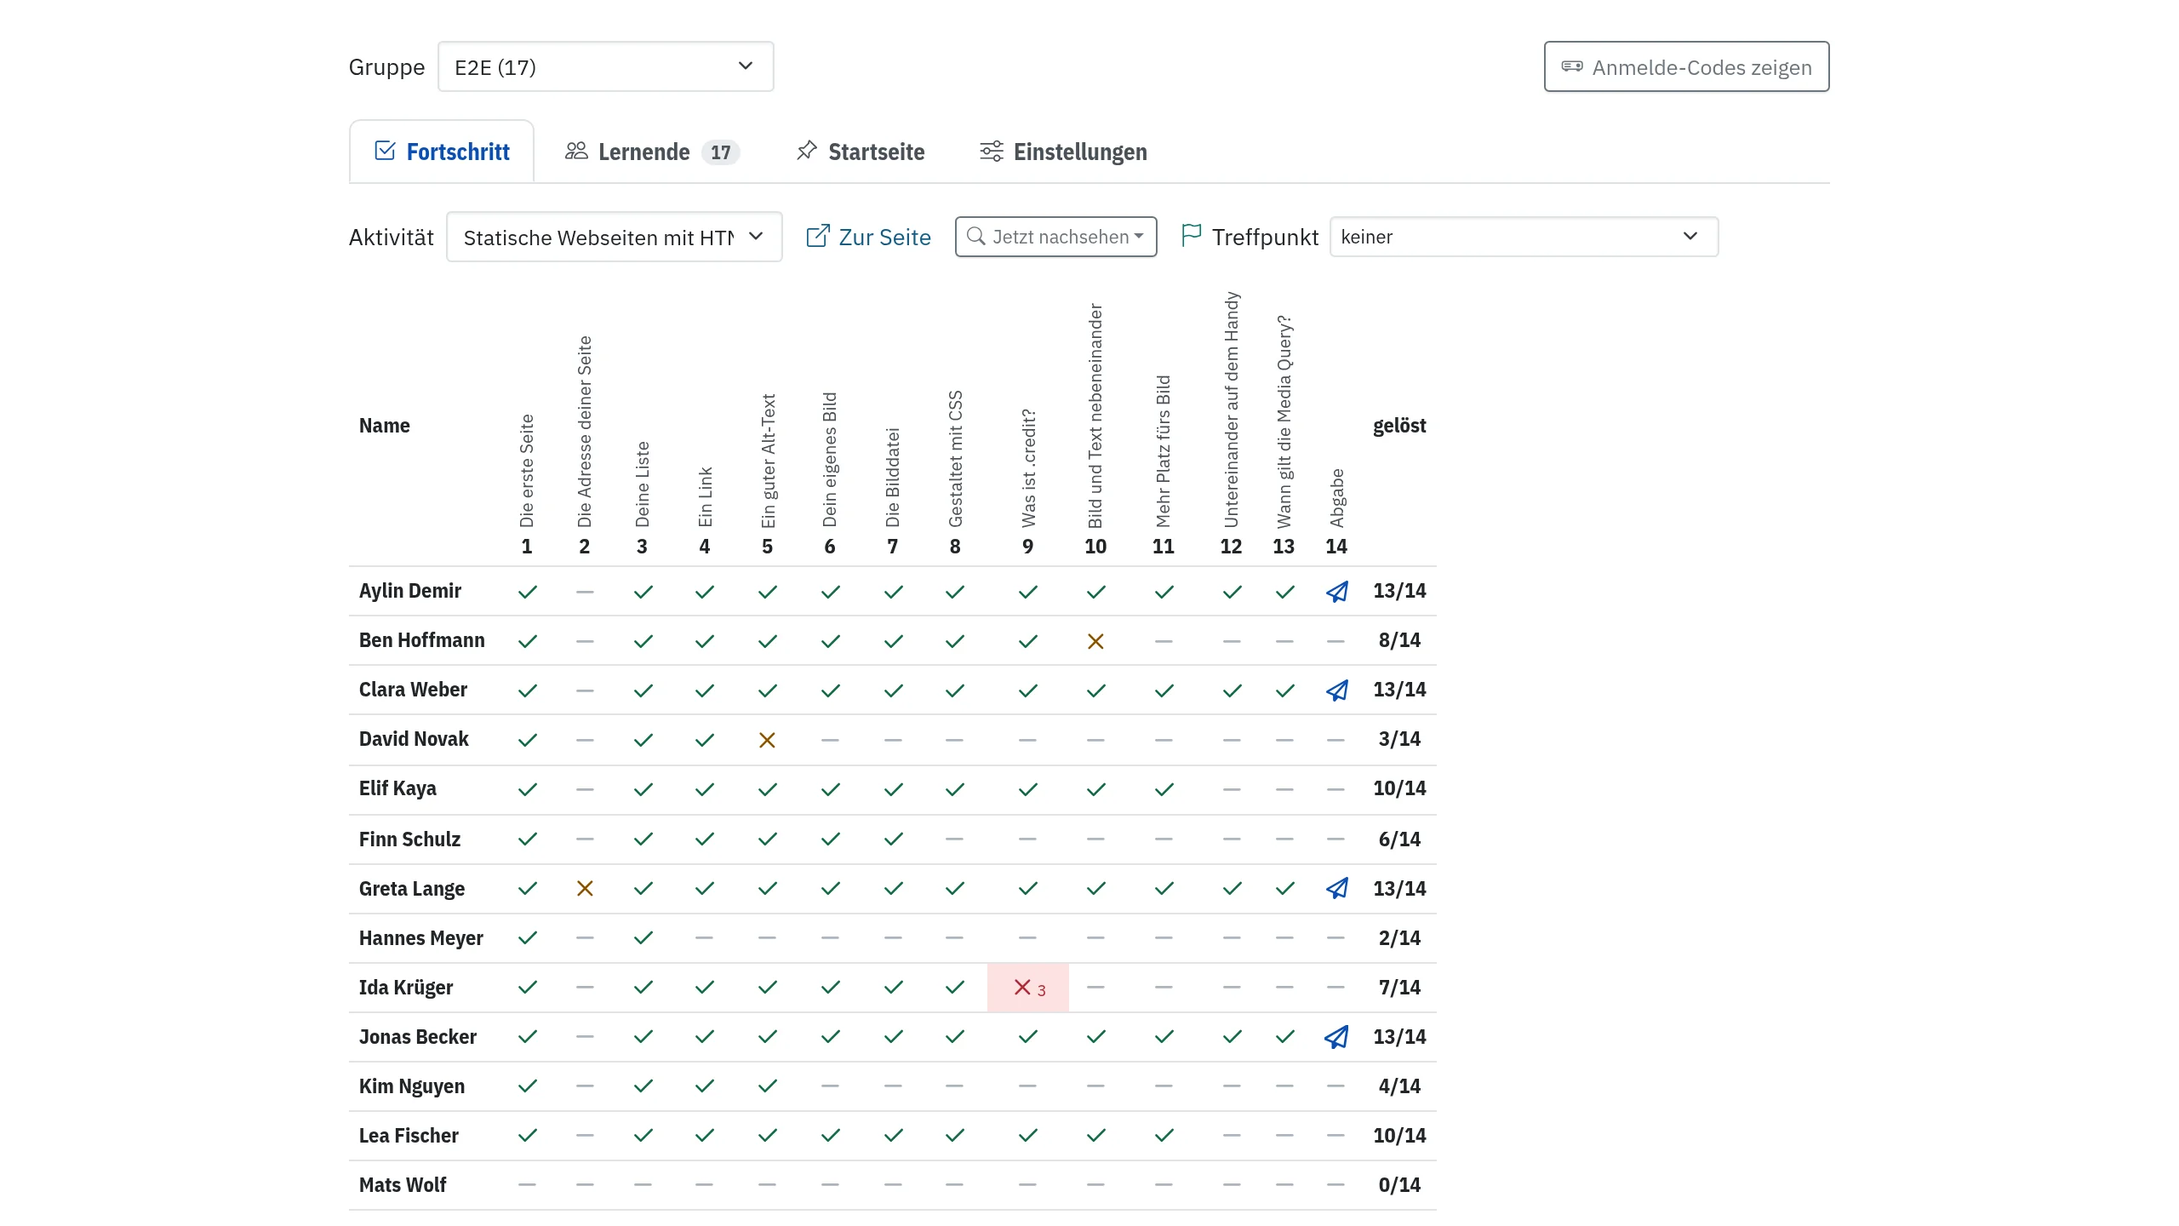
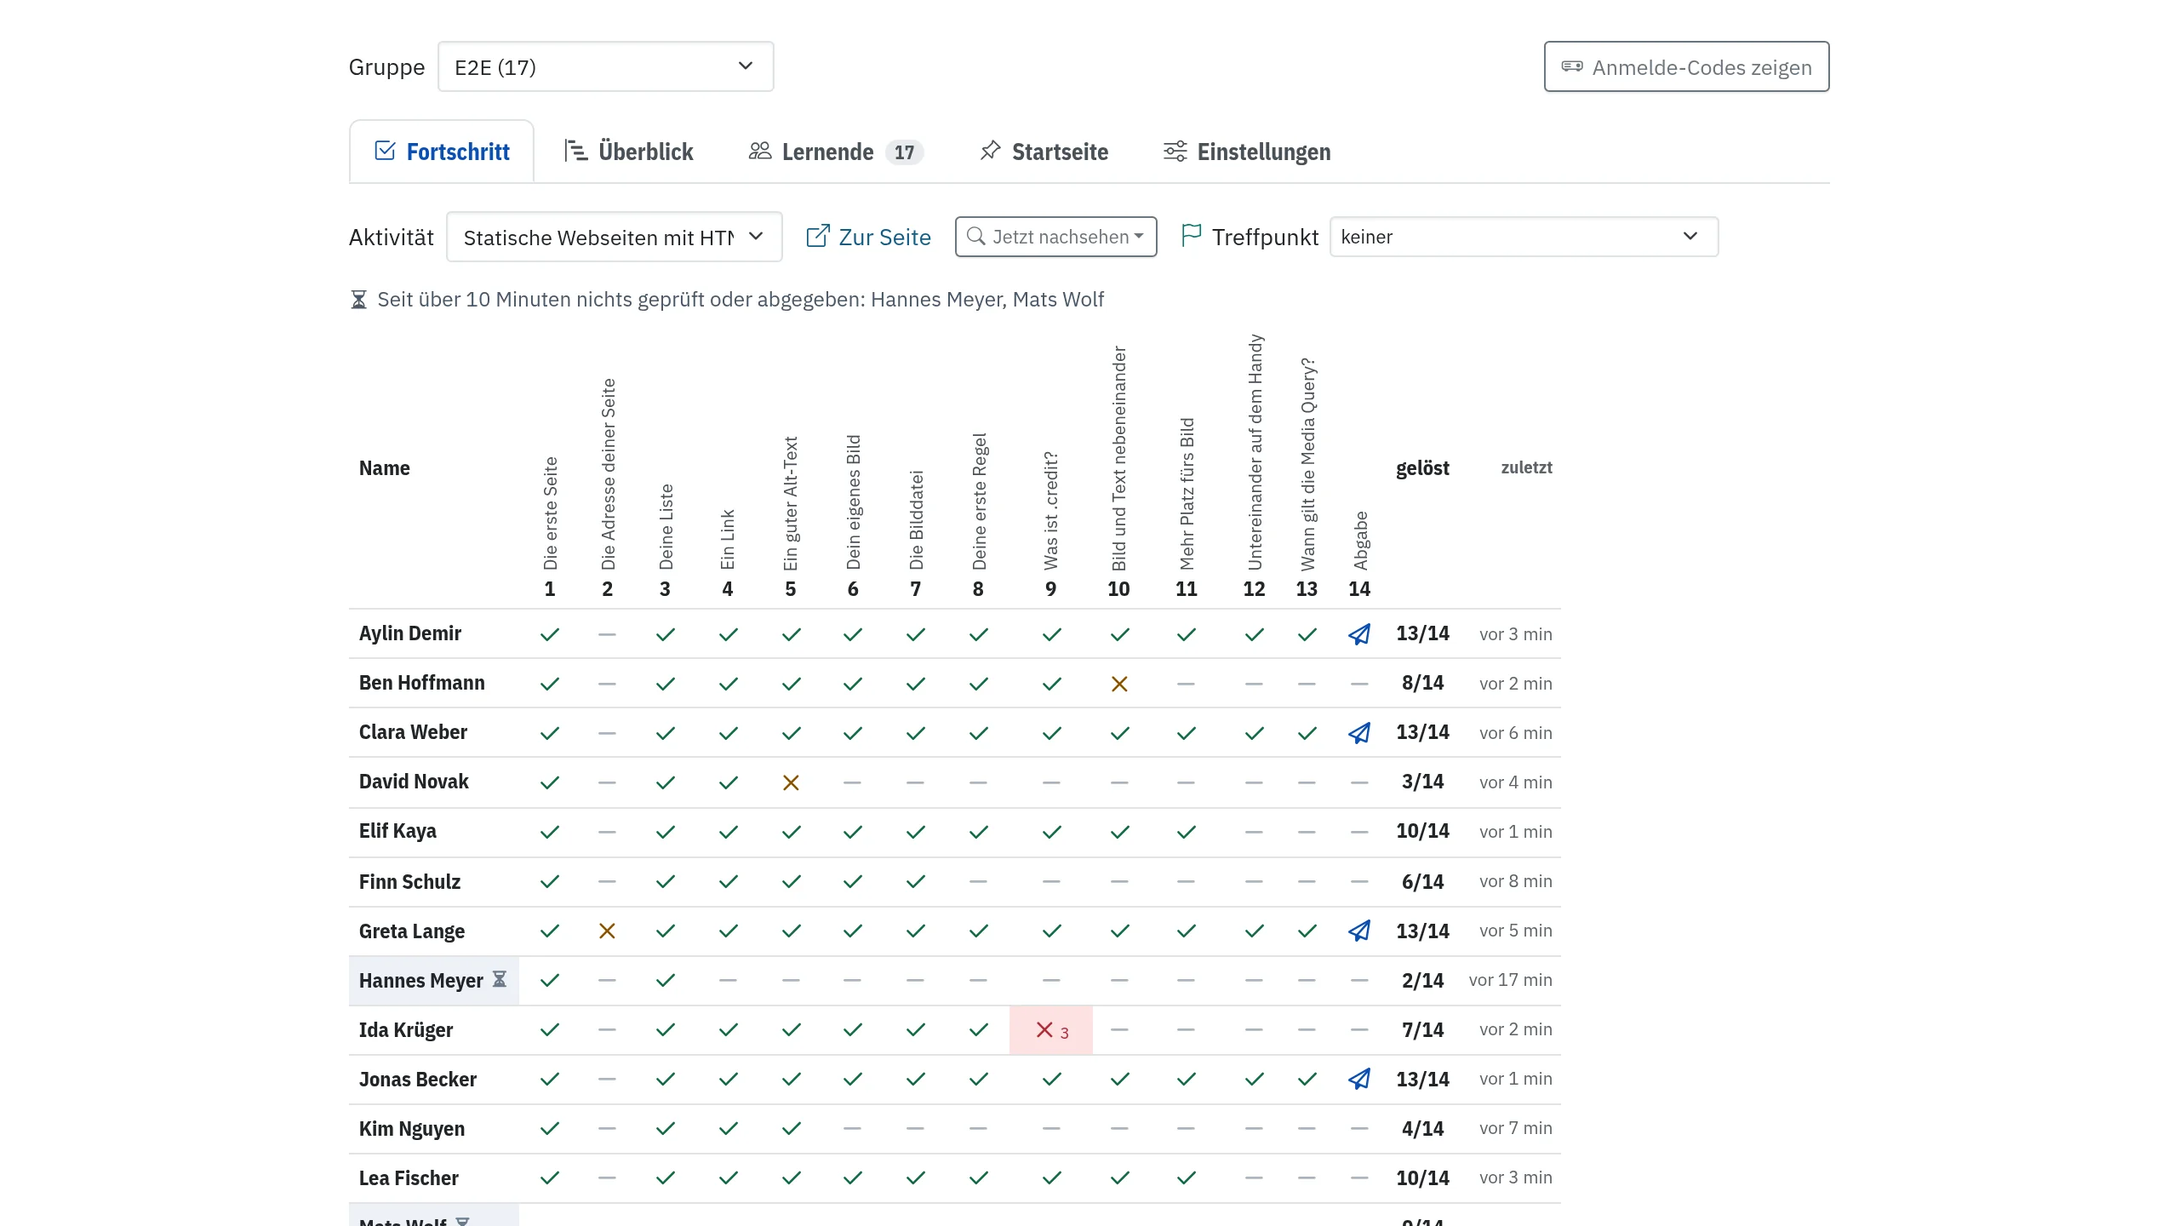
Einstieg für Lehrkräfte up to date with the class page: five tabs, »zuletzt« and who is quiet, the Treffpunkt, the tab »Überblick« (with a picture), »Einstellungen« (language, copy buttons, Git repositories, school and documents), »Klassen« instead of »Gruppen«, »Neue Gruppe« once a school is assign

diff --git a/e2e/tests/teacher-guide.pictures.ts b/e2e/tests/teacher-guide.pictures.ts
@@ -25,8 +25,8 @@ const REPO = path.resolve(__dirname, '../..');
 // below, and hashes the files the same way).
 const INPUTS = [
   'e2e/tests/teacher-guide.pictures.ts',
-  'src/ruby/include/class_board.rb', 'src/ruby/include/submission_view.rb', 'src/ruby/include/teacher_roles.rb',
-  'src/static/include/class_board.js', 'src/static/include/submission_viewer.js', 'src/static/include/tasks.js',
+  'src/ruby/include/class_board.rb', 'src/ruby/include/class_page.rb', 'src/ruby/include/submission_view.rb', 'src/ruby/include/teacher_roles.rb',
+  'src/static/include/class_board.js', 'src/static/include/class_last_active.js', 'src/static/include/submission_viewer.js', 'src/static/include/tasks.js',
   'src/static/include/default.css', 'src/static/include/dark.css', 'src/static/_template.html',
   'src/content/static-website/tasks.yaml',
 ];
@@ -75,6 +75,17 @@ const MISTAKES: [string, string, string][] = [
   ['e2e-peer@example.com', 'selektor', '0'], ['e2e-peer@example.com', 'selektor', '2'], ['e2e-peer@example.com', 'selektor', '3'],
 ];
 const STUCK = new Set(['e2e-auth-student-3@example.com alt-text', 'e2e-peer@example.com selektor']);
+// »zuletzt« as in a lesson half an hour in (minutes ago; the script itself
+// checks every task within seconds): Mats has not checked anything yet and
+// Hannes stopped a while ago, so the line above the board names both.
+const LAST: Record<string, number> = {
+  'e2e-auth-student-0@example.com': 3, 'e2e-auth-student-1@example.com': 2, 'e2e-auth-student-2@example.com': 6,
+  'e2e-auth-student-3@example.com': 4, 'e2e-auth-student-4@example.com': 1, 'e2e-auth-student-5@example.com': 8,
+  'e2e-auth-student-6@example.com': 5, 'e2e-auth-student-7@example.com': 17, 'e2e-peer@example.com': 2,
+  'e2e-0@example.com': 1, 'e2e-1@example.com': 7, 'e2e-2@example.com': 3,
+  'e2e-4@example.com': 9, 'e2e-5@example.com': 4, 'e2e-6@example.com': 6, 'e2e-7@example.com': 2,
+};
+const QUIET = ['e2e-3@example.com', 'e2e-auth-student-7@example.com'];
 
 const STAGES = path.resolve(__dirname, '../../src/content/static-website/lehrkraft');
 const PHOTO = path.resolve(__dirname, '../../src/content/reference/html/bilder/classroom.jpg');
@@ -141,7 +152,9 @@ async function dress(page: Page, zoom = 1) {
     nodes.forEach((n) => { const t = fix(n.data); if (t !== n.data) n.data = t; });
     document.documentElement.style.zoom = String(z);
   }, [NAMES, zoom] as const);
-  await page.addStyleTag({ content: 'footer { display: none !important; } .class-board-intro { visibility: hidden; }' });
+  // the E2E teacher has no school and its group comes from a file: notes a
+  // teacher of a school with a group of its own never sees
+  await page.addStyleTag({ content: 'footer { display: none !important; } .class-board-intro { visibility: hidden; } .class-group-new-note, .class-group-files { display: none !important; }' });
 }
 
 async function shoot(page: Page, name: string, anchor: string | null, out: string) {
@@ -202,11 +215,33 @@ test('pictures for the teacher guide', async ({ freshWorkspace: workspace, brows
 
     const teacher = await (await browser.newContext({ viewport: { width: 1280, height: 720 }, deviceScaleFactor: 2 })).newPage();
     await loginAsE2eUser(teacher, 'e2e-teacher@example.com', testInfo);
+    await teacher.route('**/api/class/last_active', async (route) => {
+      const now = Math.floor(Date.now() / 1000);
+      const last = Object.fromEntries(Object.entries(LAST).map(([email, minutes]) => [email, now - minutes * 60 - 20]));
+      await route.fulfill({ contentType: 'application/json', body: JSON.stringify({ now, last: { ...last, 'e2e-3@example.com': 0 }, quiet: QUIET }) });
+    });
     await teacher.goto('/klasse?group=E2E&activity=static-website');
     await teacher.evaluate(() => localStorage.setItem('hackschule-class-welcome-hidden', '1'));
     await teacher.reload();
+    await expect(teacher.locator('.cb-quiet-line')).toBeVisible({ timeout: 15_000 });
     await dress(teacher, 0.78);
     await shoot(teacher, 'klasse-fortschritt', '.class-board-select', out);
+
+    // How far everyone has come, across the group's activities; »zuletzt«
+    // the same lesson as on the board
+    await teacher.goto('/klasse?group=E2E&tab=ueberblick');
+    await teacher.evaluate((last) => {
+      const now = Math.floor(Date.now() / 1000);
+      document.querySelectorAll<HTMLElement>('table.class-overview tbody tr[data-email]').forEach((tr) => {
+        const minutes = (last as Record<string, number>)[tr.dataset.email!];
+        const td = tr.querySelector<HTMLElement>('td.cb-last')!;
+        td.dataset.updated = minutes === undefined ? '0' : String(now - minutes * 60 - 20);
+        td.textContent = (window as any).ClassLastActive.ago(Number(td.dataset.updated), now);
+      });
+    }, LAST);
+    await dress(teacher, 0.78);
+    await shoot(teacher, 'klasse-ueberblick', '.class-board-select', out);
+    await teacher.unroute('**/api/class/last_active');
 
     // The class at work: each Workspace with a load of its own (LOADS)
     await teacher.goto('/klasse?group=E2E&tab=lernende');

diff --git a/src/content/lehrmaterial/lehrmaterial-einstieg/lehrmaterial-einstieg.md b/src/content/lehrmaterial/lehrmaterial-einstieg/lehrmaterial-einstieg.md
@@ -11,7 +11,7 @@ image: klasse-fortschritt.webp
 # Einstieg für Lehrkräfte
 
 <p class='abstract'>
-Was du für die erste Stunde mit dem Workspace brauchst: wie deine Klasse sich anmeldet, was die Klassenseite zeigt, wie du Abgaben ansiehst und wie du alles vorher selbst ausprobierst. Diese Seite sehen nur Lehrkräfte.
+Was du für die erste Stunde mit dem Workspace brauchst: wie deine Klasse sich anmeldet, was die Klassenseite zeigt, wer wo hängt, wie du Abgaben ansiehst und wie du alles vorher selbst ausprobierst. Diese Seite sehen nur Lehrkräfte.
 </p>
 
 ## Was die Lernenden haben
@@ -36,17 +36,17 @@ Ein Code gilt einmal und nur kurze Zeit. Wer sich vertippt, fordert einfach eine
 
 ## Gruppen und Einladungen
 
-Wer sich anmelden kann, steht in einer Gruppe. Unter **Klassen** legst du mit **Neue Gruppe** deine Gruppen an; im Reiter **Lernende** trägst du die E-Mail-Adressen ein (eine pro Zeile, mit oder ohne Namen, auch aus einer Tabelle kopiert) und schickst eine **Willkommensmail**: Sie sagt, wie die Anmeldung geht, und Antworten darauf kommen bei dir an. Namen sind freiwillig und können auch später kommen; ohne Namen zeigt die Klassenseite die Adresse. Eine Kollegin oder einen Kollegen deiner Schule nimmst du mit **Lehrkraft dazu** in eine Gruppe.
+Wer sich anmelden kann, steht in einer Gruppe. Unter **Klassen** legst du mit **Neue Gruppe** deine Gruppen an. Den Knopf gibt es, sobald die Administration dir eine Schule zugeordnet hat; bis dahin steht an seiner Stelle, an wen du schreibst. Danach trägst du im Reiter **Lernende** die E-Mail-Adressen ein (eine pro Zeile, mit oder ohne Namen, auch aus einer Tabelle kopiert) und schickst eine **Willkommensmail**: Sie sagt, wie die Anmeldung geht, und Antworten darauf kommen bei dir an. Namen sind freiwillig und können auch später kommen; ohne Namen zeigt die Klassenseite die Adresse. Eine Kollegin oder einen Kollegen deiner Schule nimmst du mit **Lehrkraft dazu** in eine Gruppe.
 
 Welcher Schule du angehörst, trägt die Administration ein. Hat deine Schule dem Einsatz noch nicht zugestimmt, vermerkst du im Reiter **Lernende**, für wen ein schriftliches Einverständnis vorliegt; anmelden können sich alle schon jetzt (mehr dazu unten).
 
 <div class='hint'>
-Steht auf der Klassenseite, dass die Einladungen noch in Dateien stehen, pflegt sie die Administration: Schreib an <a href='mailto:${contact_email}'>${contact_email}</a>, für welche Gruppe, und schick die E-Mail-Adressen mit.
+Steht im Reiter **Lernende**, dass die Einladungen der Gruppe noch in Dateien stehen, pflegt sie die Administration: Schreib an <a href='mailto:${contact_email}'>${contact_email}</a>, für welche Gruppe, und schick die E-Mail-Adressen mit.
 </div>
 
 ## Die Klassenseite
 
-Unter **Klassen** wählst du oben die Gruppe. Darunter liegen drei Reiter.
+Unter **Klassen** wählst du oben die Gruppe. Darunter liegen fünf Reiter: **Fortschritt** zeigt eine Aktivität Aufgabe für Aufgabe, **Überblick** alle Aktivitäten der Gruppe auf einmal, **Lernende** die Personen und ihre Workspaces, **Startseite**, was die Gruppe zuerst sieht, und **Einstellungen**, was für die ganze Gruppe gilt.
 
 ### Fortschritt
 
@@ -69,6 +69,8 @@ Hier wählst du eine Aktivität und siehst, wer welche Aufgabe gelöst hat. Jede
 
 Die Zeile **Klasse** darunter zählt, wie viele fertig sind und wie viele hängen. Eine gelbe Spalte heißt: Viele liegen bei dieser Aufgabe gerade falsch. Das ist oft ein guter Moment, kurz für alle zu erklären.
 
+Ganz rechts steht unter **zuletzt**, wann jemand zuletzt eine Aufgabe dieser Aktivität geprüft, beantwortet oder abgegeben hat, etwa »vor 12 min«. Wer still ist, fällt dadurch auf, auch wenn noch kein Kreuz in der Zeile steht: Arbeitet die Klasse gerade an der Aktivität, steht über der Tabelle, wer seit über zehn Minuten nichts geprüft oder abgegeben hat, und diese Namen sind leicht hinterlegt. Das kann jemand sein, der hängt und nicht fragt, oder jemand, der in Ruhe arbeitet, ohne zu prüfen; was im Workspace geschieht, sieht die Seite nicht. Wer bei einem Treffpunkt als »fehlt heute« markiert ist, steht nicht in dieser Zeile. Die Zeiten laufen weiter, solange die Seite offen ist.
+
 Darüber stehen zwei Werkzeuge:
 
 - **Jetzt nachsehen** prüft eine Aufgabe sofort für alle, ohne dass jemand »Prüfen« drücken muss, zum Beispiel ob alle ihre Seite angelegt haben. Das Ergebnis erscheint blau umrandet in der Tabelle; gespeichert wird nichts.
@@ -83,6 +85,18 @@ Eine Abgabe ist eine Kopie. Was die Person danach im Workspace ändert, ändert 
 Für eine neue Runde, etwa im nächsten Halbjahr, löscht **Alle Abgaben löschen** unter der Liste die Abgaben dieser Aufgabe in dieser Gruppe. Vorher fragt der Workspace nach; lade herunter, was du behalten willst.
 
 Die Klassenseite merkt sich, welche Gruppe und welche Aktivität du zuletzt angesehen hast, und öffnet beim nächsten Mal dort.
+
+#### Treffpunkt
+
+Mit **Treffpunkt** über der Tabelle legst du fest, bis zu welcher Aufgabe alle kommen sollen, bevor ihr gemeinsam weitermacht, etwa für ein Gespräch an der Tafel. Wer die Aktivität offen hat, sieht nach dieser Aufgabe sofort das Band »Hier trifft sich deine Klasse«; wer alle Aufgaben bis dahin gelöst hat (Extras zählen nicht), liest dort »Du bist da«. Versteckt wird nichts; was danach kommt, ist nur blasser.
+
+Über der Tabelle steht, wie viele schon da sind und wer noch fehlt; die Zahl ändert sich, sobald jemand eine Aufgabe löst. Wer heute nicht da ist, nimmst du mit **fehlt heute** aus der Zählung; das merkt sich nur dein Browser, bis Mitternacht. Sind alle da, wird die Zeile grün. **keiner** hebt den Treffpunkt wieder auf. Auf der Seite der Aktivität setzt und verschiebst du ihn auch direkt, mit dem gestrichelten Knopf nach einer Aufgabe.
+
+### Überblick
+
+Hier steht jede Person der Gruppe mit allen Aktivitäten, an denen jemand aus der Gruppe gearbeitet hat; angeheftete kommen zuerst. In jeder Zelle steht, wie viele Aufgaben gelöst sind, von allen ohne Extras, mit einem schmalen Balken; ein Strich heißt: noch nichts bearbeitet. Ein Klick auf eine Spalte öffnet die Aktivität im Reiter **Fortschritt**. Ganz rechts steht, wann die Person zuletzt eine Aufgabe irgendeiner Aktivität geprüft hat. Noten sind das nicht: Die Zahlen sagen, wie weit jemand ist, nicht wie gut.
+
+<img class='full full-shadow' src='klasse-ueberblick.webp' alt='Der Reiter Überblick: Namen untereinander, darüber die Aktivitäten der Gruppe, in den Zellen gelöste Aufgaben mit einem schmalen Balken, rechts, wann zuletzt.'>
 
 ### Lernende
 
@@ -102,6 +116,24 @@ Bevor du einen Workspace öffnest oder jemanden nachahmst, schreibst du einen Sa
 ### Startseite
 
 Was du hier für die Gruppe **anheftest**, steht bei allen in der Gruppe oben auf der Startseite. So findet die Klasse die Aktivität der Stunde sofort.
+
+### Einstellungen
+
+Hier steht, was für die ganze Gruppe gilt; jede Änderung ist sofort gespeichert.
+
+- **Sprache:** Gibt es eine Aktivität in mehreren Programmiersprachen (etwa Ruby und Python), sieht die Gruppe zuerst diese. Lernende können auf der Seite selbst umschalten.
+- **Kopierknöpfe:** »An jedem Codeblock« setzt überall einen Kopierknopf. »Wo sinnvoll« lässt ihn nur dort, wo Abtippen nichts lehrt (Adressen, Befehle, große Dateien); alles andere tippt die Klasse ab.
+- **Git-Repositorys:** Für Aktivitäten, in denen die Klasse ein gemeinsames Repository klont, trägst du dessen Adresse ein oder legst es mit **Im Workspace anlegen** auf dem Git-Server des Workspace an. Die Lernenden sehen die Adresse dann im Befehl zum Klonen.
+- **Schule:** zu welcher Schule die Gruppe gehört, ob die Schule dem Einsatz zugestimmt hat, und der Weg zu den **Unterlagen für deine Schule** (mehr dazu unten).
+
+## Die erste Doppelstunde
+
+1. **Vorher:** Leg die Gruppe an und trag die Adressen ein (Reiter **Lernende**). Probier die Aktivität mit deinem Testkonto aus (siehe unten).
+2. **Anmelden:** Zeig **Anmelde-Codes zeigen** am Beamer; die Klasse meldet sich mit dem Anfang ihrer Adresse an und liest ihren Code dort ab.
+3. **Anheften:** Heft die Aktivität der Stunde im Reiter **Startseite** an. Sie steht dann bei allen ganz oben.
+4. **Treffpunkt:** Setz im Reiter **Fortschritt** einen Treffpunkt nach der Aufgabe, bis zu der alle vor dem ersten Gespräch kommen sollen.
+5. **Beobachten:** Behalt **Fortschritt** offen. Rote Kreuze zeigen, wer hängt, eine gelbe Spalte, wo viele hängen, die Zeile über der Tabelle, wer still ist. Ist die Treffpunkt-Zeile grün, sind alle da.
+6. **Am Ende:** Der Reiter **Überblick** zeigt, wie weit alle gekommen sind, auch über mehrere Aktivitäten.
 
 ## Selbst ausprobieren
 
@@ -142,6 +174,8 @@ Steht an einer Aufgabe **Vorschau für Lehrkräfte**, sind Aufgaben auf eurer In
 - Abgaben als Kopie, bis die Person sie löscht oder neu abgibt.
 - Wer wann einen Workspace geöffnet oder jemanden nachgeahmt hat, mit deinem Satz dazu.
 
+Daraus zeigt die Klassenseite auch, wann jemand zuletzt eine Aufgabe geprüft hat; eigens gespeichert wird dafür nichts.
+
 Noten speichert der Workspace nicht. Die Haken auf der Klassenseite sagen, ob eine Aufgabe gelöst ist, nicht wie gut.
 
 Im Profil unter **Meine Daten** lädt jede Person alles, was zu ihrem Konto gespeichert ist, als ZIP herunter und löscht ihr Konto selbst. Spätestens zum Ende des Schuljahres, in dem ein Kurs endet, werden die Konten gelöscht; sag der Administration, welche Gruppen enden und wer die Schule verlässt. Wer die Schule verlässt und das Konto behalten möchte, kann es weiterführen. Alles Weitere steht in der [Datenschutzerklärung](/impressum#datenschutz).
@@ -150,8 +184,8 @@ Im Profil unter **Meine Daten** lädt jede Person alles, was zu ihrem Konto gesp
 
 Unter [Datenschutz: Unterlagen für die Schule](/datenschutz) liegt alles, was eine Schulleitung braucht, um den Workspace im Unterricht einzusetzen: eine Seite mit der Entscheidung zum Unterschreiben, eine Prüfübersicht für die Datenschutzbeauftragte Stelle, der Eintrag für das Verzeichnis von Verarbeitungstätigkeiten, ein Elternbrief und eine Nutzungsordnung, jeweils zum Drucken.
 
-Unterrichtest du an einer anderen Schule als der, die den Workspace betreibt, gilt das auch für dich. Unter **Gruppen** führt **Unterlagen für deine Schule** zu denselben Unterlagen mit deiner Schule als Verantwortlicher: Sie nennen ihre Anschrift und ihre Datenschutzbeauftragte Stelle (das trägt die Administration ein; sag ihr, was fehlt), dich als Ansprechperson, und der Elternbrief trägt deinen Namen. Die Schulleitung unterschreibt die Entscheidung und die Vereinbarung zur Auftragsverarbeitung; schick beides an die Administration, die es einträgt. Damit ist für deine ganze Schule alles geklärt.
+Unterrichtest du an einer anderen Schule als der, die den Workspace betreibt, gilt das auch für dich. Unter **Klassen** im Reiter **Einstellungen** führt **Unterlagen für deine Schule** zu denselben Unterlagen mit deiner Schule als Verantwortlicher: Sie nennen ihre Anschrift und ihre Datenschutzbeauftragte Stelle (das trägt die Administration ein; sag ihr, was fehlt), dich als Ansprechperson, und der Elternbrief trägt deinen Namen. Die Schulleitung unterschreibt die Entscheidung und die Vereinbarung zur Auftragsverarbeitung; schick beides an die Administration, die es einträgt. Damit ist für deine ganze Schule alles geklärt.
 
-Bis dahin genügt für eine Schülerin oder einen Schüler ein schriftliches Einverständnis: Unter den Unterlagen gibt es den **Elternbrief mit Einverständniserklärung**. Du bewahrst die unterschriebenen Zettel auf und trägst unter **Gruppen** bei jeder Person das Datum ein; dafür bist du verantwortlich. Gesperrt wird niemand, solange das noch offen ist; die Gruppe zeigt aber, für wie viele es fehlt.
+Bis dahin genügt für eine Schülerin oder einen Schüler ein schriftliches Einverständnis: Unter den Unterlagen gibt es den **Elternbrief mit Einverständniserklärung**. Du bewahrst die unterschriebenen Zettel auf und trägst im Reiter **Lernende** bei jeder Person das Datum ein; dafür bist du verantwortlich. Gesperrt wird niemand, solange das noch offen ist; die Gruppe zeigt aber, für wie viele es fehlt.
 
 Leistungsüberprüfungen bereitest du im **Profil** unter **Für Lehrkräfte** vor.
